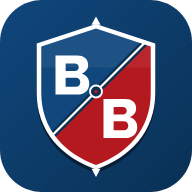
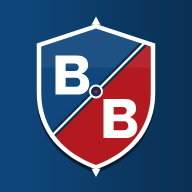
feat(pwa): add installable manifest and self-hosted fonts
- Configure site.webmanifest with name, theme colors, language and /bb-chief/ paths.
- Add PWA install icons (PNG) in public/.
- Link the manifest and theme-color in index.html and set lang="es".
- Replace Google Fonts with @fontsource/inter and @fontsource/barlow-condensed.

diff --git a/index.html b/index.html
@@ -1,5 +1,5 @@
 <!doctype html>
-<html lang="">
+<html lang="es">
   <head>
     <meta charset="UTF-8" />
     <link rel="icon" type="image/png" href="/favicon-96x96.png" sizes="96x96" />
@@ -7,6 +7,7 @@
     <link rel="shortcut icon" href="/favicon.ico" />
     <link rel="apple-touch-icon" sizes="180x180" href="/apple-touch-icon.png" />
     <link rel="manifest" href="/site.webmanifest" />
+    <meta name="theme-color" content="#10477d" />
     <meta name="viewport" content="width=device-width, initial-scale=1.0" />
     <title>BB Chief</title>
   </head>

diff --git a/src/main.ts b/src/main.ts
@@ -2,6 +2,12 @@ import { createApp } from 'vue'
 import App from './App.vue'
 import router from './router'
 import { i18n } from './i18n'
+import '@fontsource/inter/400.css'
+import '@fontsource/inter/500.css'
+import '@fontsource/inter/600.css'
+import '@fontsource/inter/700.css'
+import '@fontsource/barlow-condensed/600.css'
+import '@fontsource/barlow-condensed/700.css'
 import './assets/main.css'
 
 const app = createApp(App)

diff --git a/src/assets/main.css b/src/assets/main.css
@@ -1,4 +1,3 @@
-@import url('https://fonts.googleapis.com/css2?family=Barlow+Condensed:wght@600;700&family=Inter:wght@400;500;600;700&display=swap');
 @import 'tailwindcss';
 
 @theme {
